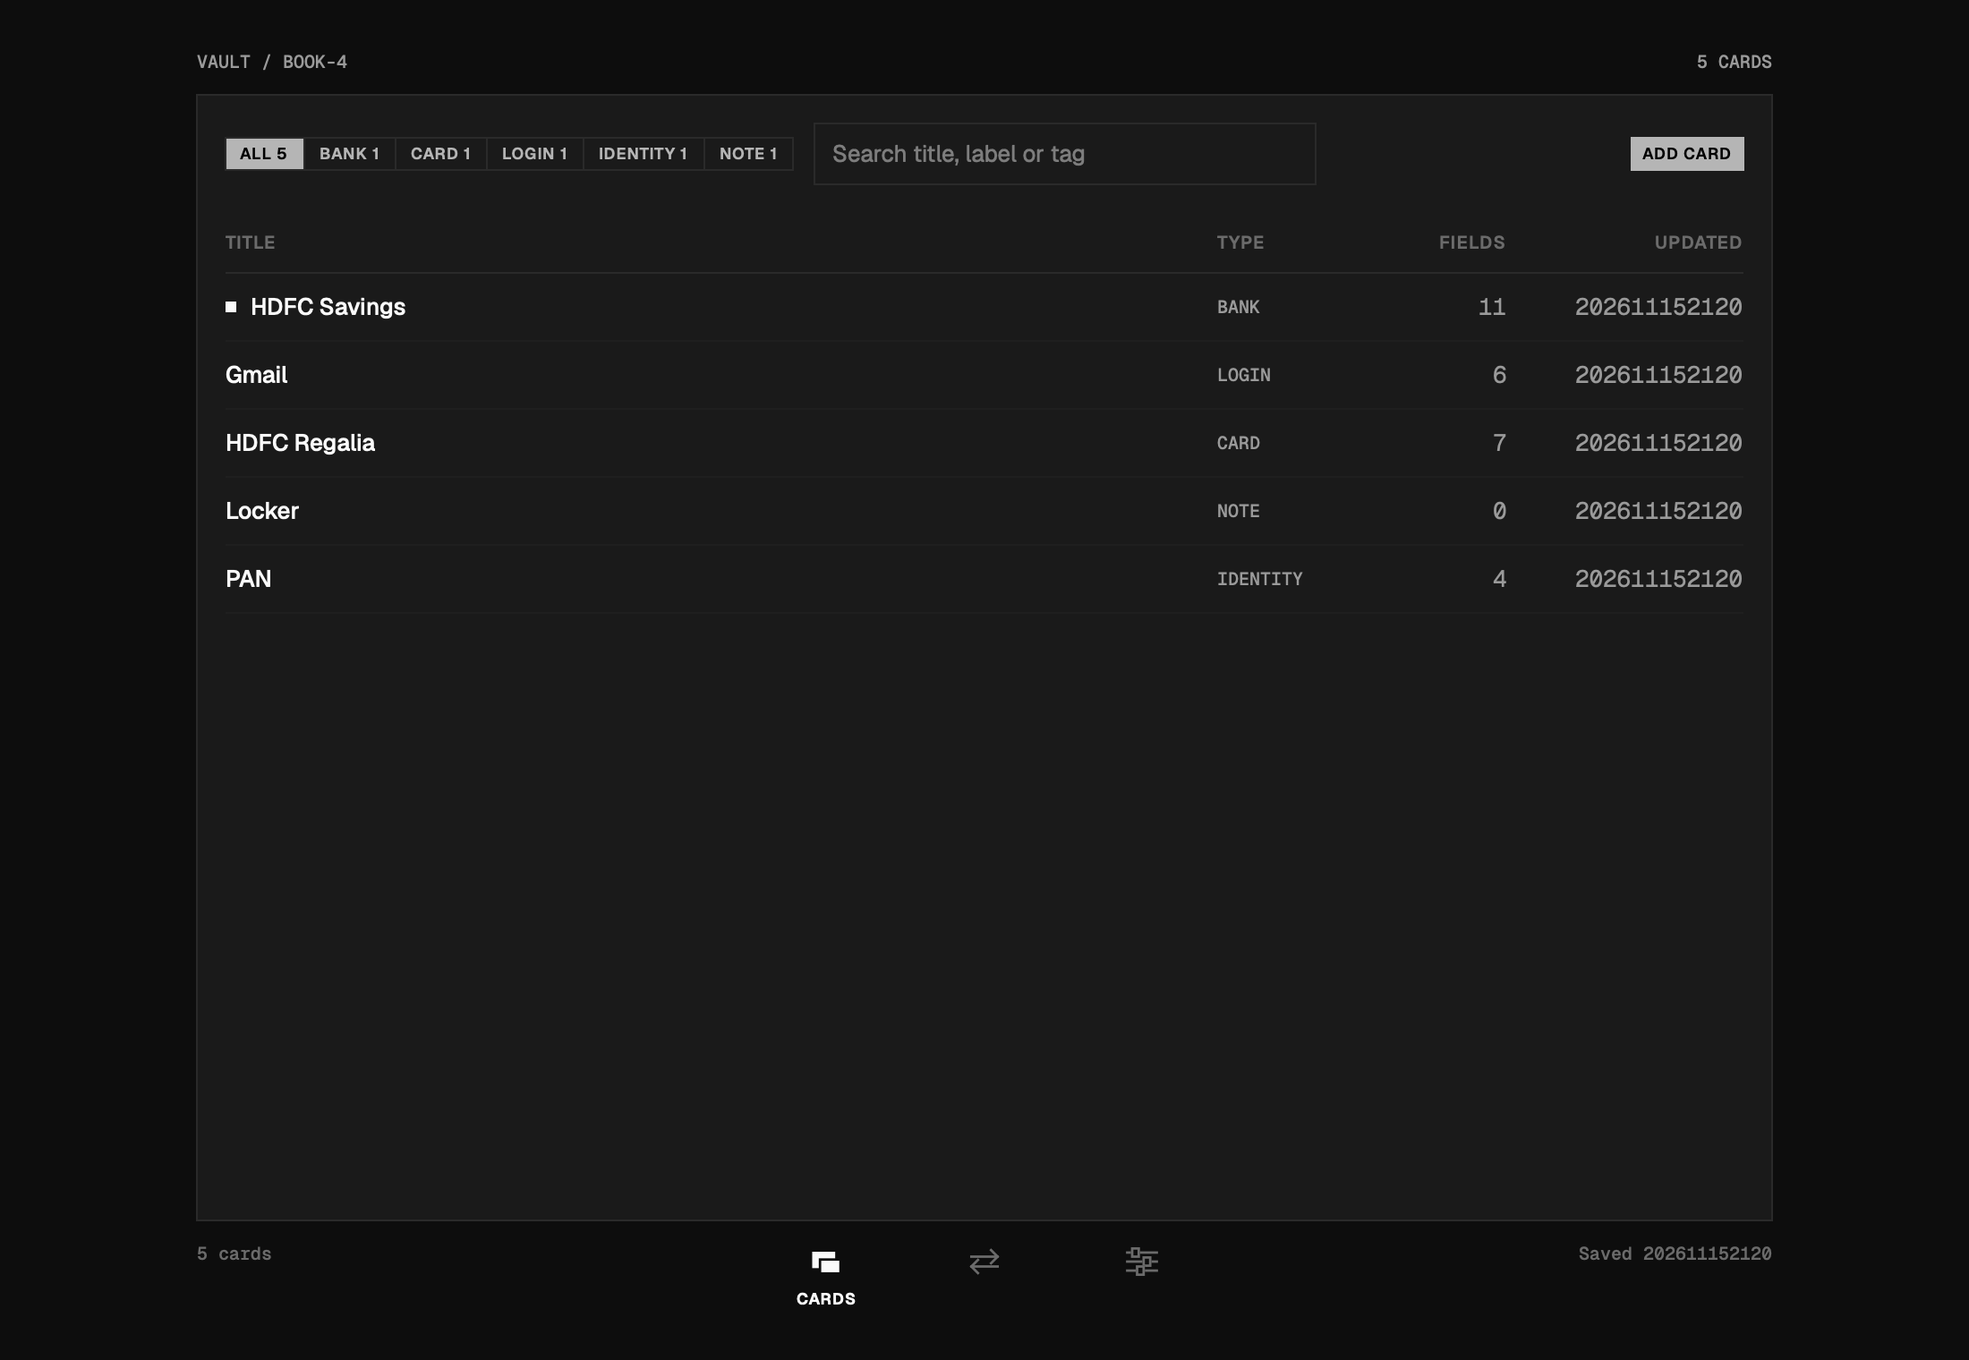
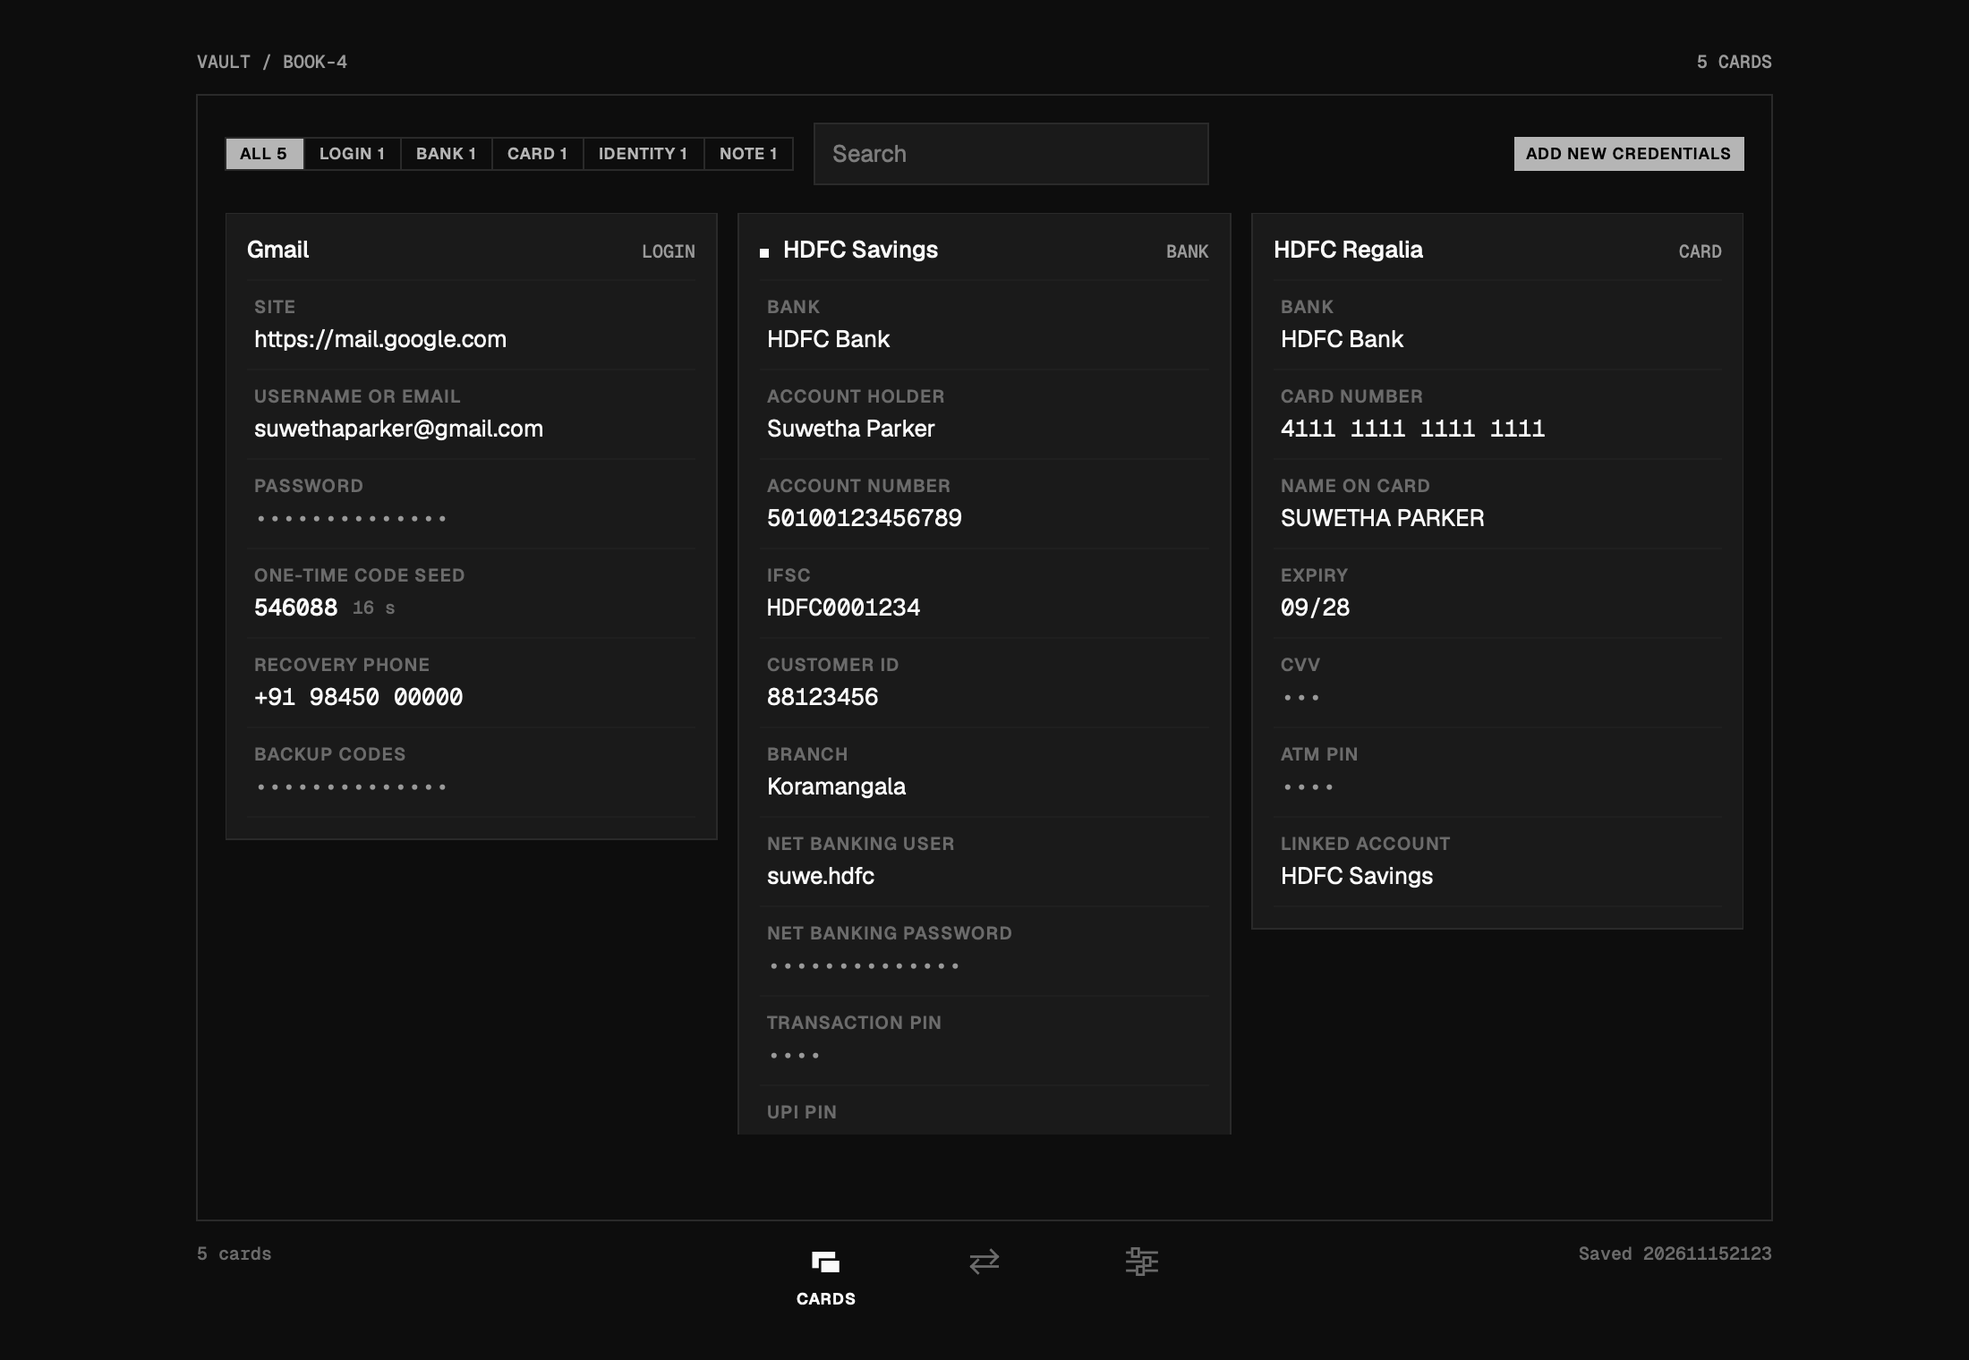
Cards module is a grid of small copyable cards; login, bank, card order; Add new credentials

diff --git a/Sources/VaultUI/Screens/Cards.swift b/Sources/VaultUI/Screens/Cards.swift
@@ -10,19 +10,7 @@ struct CardsModule: View {
         if let draft = model.editingItem {
             CardEditor(model: model, original: draft, isNew: model.item(draft.id) == nil) { model.editingItem = nil }
         } else {
-            ZStack {
-                list
-                if let item = model.item(model.selectedItemID) {
-                    // The card floats over the list. Click outside, Esc or CLOSE puts it away.
-                    Tok.bg.opacity(0.72)
-                        .contentShape(Rectangle())
-                        .onTapGesture { model.selectedItemID = nil }
-                    CardDetail(model: model, item: item, onEdit: { model.editingItem = item }, onClose: { model.selectedItemID = nil })
-                        .padding(Type.isPhone ? 0 : Tok.s4)
-                    Button("") { model.selectedItemID = nil }.keyboardShortcut(.cancelAction).frame(width: 0, height: 0).opacity(0)
-                }
-            }
-            .animation(.easeOut(duration: 0.12), value: model.selectedItemID)
+            grid
         }
     }
 
@@ -41,27 +29,32 @@ struct CardsModule: View {
             .filter { filter == nil || $0.category == filter }
             .filter { q.isEmpty || $0.searchText.contains(q) }
             .sorted { a, b in
+                // Logins, then bank, then cards, then the rest. Pinned first within a type, then by title.
+                let order = ItemCategory.allCases
+                let ia = order.firstIndex(of: a.category) ?? 0, ib = order.firstIndex(of: b.category) ?? 0
+                if ia != ib { return ia < ib }
                 if a.favourite != b.favourite { return a.favourite }
                 return a.title.localizedCaseInsensitiveCompare(b.title) == .orderedAscending
             }
     }
 
-    private var list: some View {
+    /// Every card is shown whole, small, in a scrolling grid. Values copy from here; nothing opens.
+    private var grid: some View {
         VStack(alignment: .leading, spacing: Tok.s4) {
             if Type.isPhone {
                 VStack(alignment: .leading, spacing: Tok.s2) {
                     ScrollView(.horizontal, showsIndicators: false) { Segmented(counts, selection: $filter) }
                     HStack(spacing: Tok.s1) {
                         OpsField("", text: $query, placeholder: "Search")
-                        RowButton("Add", kind: .primary) { newCard() }
+                        RowButton("Add new", kind: .primary) { newCard() }
                     }
                 }
             } else {
                 HStack(spacing: Tok.s3) {
                     Segmented(counts, selection: $filter)
-                    OpsField("", text: $query, placeholder: "Search title, label or tag").frame(maxWidth: 280)
+                    OpsField("", text: $query, placeholder: "Search").frame(maxWidth: 220)
                     Spacer()
-                    OpsButton("Add card", kind: .primary) { newCard() }
+                    OpsButton("Add new credentials", kind: .primary) { newCard() }
                 }
             }
             if model.items.isEmpty {
@@ -69,25 +62,17 @@ struct CardsModule: View {
             } else if visible.isEmpty {
                 Text("No match").font(Type.meta()).foregroundStyle(Tok.text3).padding(.top, Tok.s6)
             } else {
-                ScrollView {
-                    VStack(spacing: 0) {
-                        if !Type.isPhone {
-                            HStack(spacing: Tok.s3) {
-                                Lbl("Title").frame(maxWidth: .infinity, alignment: .leading)
-                                Lbl("Type").frame(width: 90, alignment: .leading)
-                                Lbl("Fields").frame(width: 60, alignment: .trailing)
-                                Lbl("Updated").frame(width: 120, alignment: .trailing)
-                            }
-                            .padding(.vertical, Tok.s25)
-                            Rule()
-                        }
+                ScrollView(showsIndicators: false) {
+                    LazyVGrid(columns: [GridItem(.adaptive(minimum: Type.isPhone ? 300 : 260, maximum: 340), spacing: Tok.s3, alignment: .top)],
+                              alignment: .leading, spacing: Tok.s3) {
                         ForEach(visible) { item in
-                            CardRow(item: item) { model.selectedItemID = item.id; model.touchActivity() }
-                            Rule(quiet: true)
+                            MiniCard(model: model, item: item) { model.editingItem = item }
                         }
                     }
+                    .padding(.bottom, Tok.s4)
                 }
             }
+            StatusLine(model.status, isError: model.statusIsError)
         }
     }
 
@@ -96,79 +81,34 @@ struct CardsModule: View {
     }
 }
 
-struct CardRow: View {
-    let item: VaultItem
-    let open: () -> Void
-    @State private var hover = false
-    var body: some View {
-        Button(action: open) {
-            if Type.isPhone {
-                HStack(spacing: Tok.s3) {
-                    VStack(alignment: .leading, spacing: 3) {
-                        Text(item.title).font(Type.bodyStrong()).foregroundStyle(Tok.text).lineLimit(1)
-                        Tag(item.category.label)
-                    }
-                    Spacer()
-                    Text(Fmt.day(item.modifiedAt)).font(Type.tag()).foregroundStyle(Tok.text3)
-                }
-                .padding(.vertical, Tok.s3)
-                .contentShape(Rectangle())
-            } else {
-                HStack(spacing: Tok.s3) {
-                    HStack(spacing: Tok.s2) {
-                        if item.favourite { Rectangle().fill(Tok.text).frame(width: 6, height: 6) }
-                        Text(item.title).font(Type.bodyStrong()).foregroundStyle(Tok.text).lineLimit(1)
-                    }
-                    .frame(maxWidth: .infinity, alignment: .leading)
-                    Tag(item.category.label).frame(width: 90, alignment: .leading)
-                    Text("\(item.fields.filter { !$0.value.isEmpty }.count)").font(Type.dataBody()).foregroundStyle(Tok.text2).frame(width: 60, alignment: .trailing)
-                    Text(Fmt.stamp(item.modifiedAt)).font(Type.dataBody()).foregroundStyle(Tok.text2).frame(width: 120, alignment: .trailing)
-                }
-                .padding(.vertical, Tok.s25)
-                .background(hover ? Tok.elevated : .clear)
-                .contentShape(Rectangle())
-            }
-        }
-        .buttonStyle(.plain)
-        .onHover { hover = $0 }
-    }
-}
+// MARK: Mini card
 
-// MARK: Detail
-
-/// Design section 07 "Card": bordered panel on surface, 16px padding, title-3 header with a tag at the
-/// right, label left and mono value right. Hovering a row shows its actions; clicking a value copies it.
-struct CardDetail: View {
+/// Design section 07 "Card", compact: bordered panel on surface, 12px padding, title with the type tag
+/// at the right, label left and mono value right. Hover a row for REVEAL / COPY; click the row to copy.
+struct MiniCard: View {
     @ObservedObject var model: AppModel
     let item: VaultItem
     let onEdit: () -> Void
-    let onClose: () -> Void
     @State private var revealed: Set<UUID> = []
-    @State private var confirmDelete = false
+    @State private var hover = false
 
     private var filled: [VaultField] { item.fields.filter { !$0.value.isEmpty } }
 
     var body: some View {
-        ScrollView(showsIndicators: false) { card }
-            .frame(maxWidth: cardWidth)
-            .fixedSize(horizontal: false, vertical: true)
-    }
-
-    private var cardWidth: CGFloat { Type.isPhone ? .infinity : 560 }
-
-    private var card: some View {
         VStack(alignment: .leading, spacing: 0) {
-            HStack(alignment: .firstTextBaseline, spacing: Tok.s3) {
-                Text(item.title).font(Type.title3()).foregroundStyle(Tok.text).lineLimit(2)
-                Spacer()
-                HStack(spacing: Tok.s2) {
-                    if item.favourite { Rectangle().fill(Tok.text).frame(width: 6, height: 6) }
-                    Tag(item.category.label)
+            HStack(alignment: .firstTextBaseline, spacing: Tok.s2) {
+                if item.favourite { Rectangle().fill(Tok.text).frame(width: 5, height: 5) }
+                Text(item.title).font(Type.bodyStrong()).foregroundStyle(Tok.text).lineLimit(1)
+                Spacer(minLength: Tok.s2)
+                Tag(item.category.label)
+                if hover || Type.isPhone {
+                    Button(action: onEdit) { Lbl("Edit", color: Tok.text2) }.buttonStyle(.plain)
                 }
             }
-            .padding(.bottom, Tok.s3)
+            .padding(.bottom, Tok.s2)
+            Rule(quiet: true)
             if filled.isEmpty && item.notes.isEmpty {
-                Text("Nothing entered yet").font(Type.meta()).foregroundStyle(Tok.text3).padding(.vertical, Tok.s3)
+                Text("Nothing entered").font(Type.hint()).foregroundStyle(Tok.text3).padding(.vertical, Tok.s2)
             }
             ForEach(filled) { f in
                 CardFieldRow(field: f, revealed: revealed.contains(f.id),
@@ -177,38 +117,16 @@ struct CardDetail: View {
                 Rule(quiet: true)
             }
             if !item.notes.isEmpty {
-                VStack(alignment: .leading, spacing: Tok.s2) {
-                    Lbl("Notes")
-                    Text(item.notes).font(Type.body()).foregroundStyle(Tok.text2)
-                        .fixedSize(horizontal: false, vertical: true)
-                }
-                .padding(.top, Tok.s3)
+                Text(item.notes).font(Type.hint()).foregroundStyle(Tok.text2).lineLimit(3)
+                    .fixedSize(horizontal: false, vertical: true)
+                    .padding(.top, Tok.s2)
             }
-            if !item.tags.isEmpty {
-                HStack(spacing: Tok.s3) { ForEach(item.tags, id: \.self) { Tag($0) } }
-                    .padding(.top, Tok.s3)
-            }
-            Rule().padding(.top, Tok.s4)
-            HStack(spacing: Tok.s1) {
-                OpsButton("Edit", action: onEdit)
-                if confirmDelete {
-                    OpsButton("Confirm delete", kind: .danger) { model.delete(item.id) }
-                    OpsButton("Keep") { confirmDelete = false }
-                } else {
-                    OpsButton("Delete", kind: .danger) { confirmDelete = true }
-                }
-                Spacer()
-                StatusLine(model.status, isError: model.statusIsError)
-                OpsButton("Close", action: onClose)
-            }
-            .padding(.top, Tok.s3)
-            Text("Created \(Fmt.stamp(item.createdAt))   Updated \(Fmt.stamp(item.modifiedAt))")
-                .font(Type.hint()).foregroundStyle(Tok.text3).padding(.top, Tok.s2)
         }
-        .padding(Tok.s4)
-        .frame(maxWidth: cardWidth, alignment: .leading)
+        .padding(Tok.s3)
+        .frame(maxWidth: .infinity, alignment: .leading)
         .background(Tok.surface)
-        .overlay(Rectangle().stroke(Tok.border, lineWidth: 1))
+        .overlay(Rectangle().stroke(hover ? Tok.text3 : Tok.border, lineWidth: 1))
+        .onHover { hover = $0 }
     }
 }
 
@@ -227,37 +145,25 @@ struct CardFieldRow: View {
     private var showActions: Bool { Type.isPhone || hover }
 
     var body: some View {
-        Group {
-            if Type.isPhone {
-                // Field layout: label above, value and actions below.
-                VStack(alignment: .leading, spacing: Tok.s2) {
-                    Lbl(field.label)
-                    HStack(alignment: .firstTextBaseline, spacing: Tok.s3) {
-                        value.multilineTextAlignment(.leading)
-                        Spacer(minLength: Tok.s2)
-                        actions
-                    }
-                }
-            } else {
-                HStack(alignment: .firstTextBaseline, spacing: Tok.s3) {
-                    Lbl(field.label).frame(width: 150, alignment: .leading)
-                    Spacer(minLength: Tok.s2)
-                    value
-                    if showActions { actions.frame(width: actionsWidth, alignment: .trailing) }
-                    else { Color.clear.frame(width: actionsWidth, height: 1) }
-                }
+        VStack(alignment: .leading, spacing: 3) {
+            HStack(spacing: Tok.s2) {
+                Lbl(field.label).lineLimit(1)
+                Spacer(minLength: Tok.s2)
+                if showActions { actions }
+            }
+            HStack(spacing: 0) {
+                value
+                Spacer(minLength: 0)
             }
         }
-        .padding(.vertical, Tok.s25)
-        .padding(.horizontal, Tok.s2)
+        .padding(.vertical, Tok.s2)
+        .padding(.horizontal, Tok.s1)
         .background(hover ? Tok.elevated : .clear)
         .contentShape(Rectangle())
         .onTapGesture { doCopy() }
         .onHover { hover = $0 }
         .onReceive(timer) { tick = $0 }
     }
-
-    private var actionsWidth: CGFloat { field.kind.isSecret && !isOTP ? 86 : 40 }
 
     private var actions: some View {
         HStack(spacing: Tok.s3) {
@@ -280,10 +186,10 @@ struct CardFieldRow: View {
                 Text("Invalid seed").font(Type.meta()).foregroundStyle(Tok.err)
             }
         } else if field.kind.isSecret && !revealed {
-            Text(String(repeating: "•", count: min(field.value.count, 14))).font(Type.data()).foregroundStyle(Tok.text2)
+            Text(String(repeating: "•", count: min(field.value.count, 14))).font(Type.dataBody()).foregroundStyle(Tok.text2)
         } else {
-            Text(field.value).font(field.kind.isMono ? Type.data() : Type.body()).foregroundStyle(Tok.text)
-                .multilineTextAlignment(.trailing).lineLimit(4)
+            Text(field.value).font(field.kind.isMono ? Type.dataBody() : Type.cell()).foregroundStyle(Tok.text)
+                .lineLimit(3).fixedSize(horizontal: false, vertical: true)
         }
     }
 
@@ -311,7 +217,7 @@ struct CardEditor: View {
         ScrollView {
             VStack(alignment: .leading, spacing: Tok.s4) {
                 HStack(spacing: Tok.s3) {
-                    Text(isNew ? "New card" : "Edit card").font(Type.title3()).foregroundStyle(Tok.text)
+                    Text(isNew ? "New credentials" : "Edit credentials").font(Type.title3()).foregroundStyle(Tok.text)
                     Spacer()
                     if !Type.isPhone { actions }
                 }
@@ -349,10 +255,19 @@ struct CardEditor: View {
         }
     }
 
+    @State private var confirmDelete = false
     private var actions: some View {
         HStack(spacing: Tok.s1) {
             OpsButton("Save", kind: .primary, disabled: draft.title.trimmingCharacters(in: .whitespaces).isEmpty) { save() }
             OpsButton("Cancel") { done() }
+            if !isNew {
+                if confirmDelete {
+                    OpsButton("Confirm delete", kind: .danger) { model.delete(draft.id); done() }
+                    OpsButton("Keep") { confirmDelete = false }
+                } else {
+                    OpsButton("Delete", kind: .danger) { confirmDelete = true }
+                }
+            }
         }
     }
 
@@ -362,7 +277,6 @@ struct CardEditor: View {
         it.fields = it.fields.filter { !$0.value.trimmingCharacters(in: .whitespaces).isEmpty }
         it.tags = tagsText.split(separator: ",").map { $0.trimmingCharacters(in: .whitespaces) }.filter { !$0.isEmpty }
         model.upsert(it)
-        model.selectedItemID = it.id
         done()
     }
 }

diff --git a/Sources/VaultPreview/main.swift b/Sources/VaultPreview/main.swift
@@ -51,9 +51,6 @@ func scenarios() -> [Scenario] {
         Scenario(name: "09-mac-adopt", size: mac, phone: false, prepare: model { $0.phase = .adopt }),
         Scenario(name: "11-mac-cards", size: mac, phone: false, prepare: model { $0.loadForPreview(v) }),
         Scenario(name: "11-phone-cards", size: ph, phone: true, prepare: model { $0.loadForPreview(v) }),
-        Scenario(name: "12-mac-card-detail", size: mac, phone: false, prepare: model { $0.loadForPreview(v); $0.selectedItemID = v.payload.items[0].id }),
-        Scenario(name: "12-phone-card-detail", size: ph, phone: true, prepare: model { $0.loadForPreview(v); $0.selectedItemID = v.payload.items[0].id }),
-        Scenario(name: "13-mac-card-detail-login", size: mac, phone: false, prepare: model { $0.loadForPreview(v); $0.selectedItemID = v.payload.items[2].id }),
         Scenario(name: "13b-mac-editor", size: mac, phone: false, prepare: model { $0.loadForPreview(v); $0.editingItem = v.payload.items[2] }),
         Scenario(name: "13b-phone-editor", size: CGSize(width: 390, height: 1100), phone: true, prepare: model { $0.loadForPreview(v); $0.editingItem = v.payload.items[2] }),
         Scenario(name: "14-mac-sync", size: mac, phone: false, prepare: model { $0.loadForPreview(v); $0.module = .sync }),

diff --git a/Sources/VaultUI/Screens/Frame.swift b/Sources/VaultUI/Screens/Frame.swift
@@ -62,7 +62,6 @@ struct Frame<Content: View>: View {
 
             content()
                 .frame(maxWidth: Tok.appColumn, maxHeight: .infinity, alignment: .top)
-                .background(Tok.surface.opacity(Type.isPhone ? 0 : 1))
                 .overlay(Rectangle().stroke(Type.isPhone ? .clear : Tok.border, lineWidth: 1))
 
             HStack(alignment: .top) {

diff --git a/Sources/VaultCore/Model/VaultItem.swift b/Sources/VaultCore/Model/VaultItem.swift
@@ -90,7 +90,7 @@ public enum FieldKind: String, Codable, CaseIterable, Sendable {
 }
 
 public enum ItemCategory: String, Codable, CaseIterable, Sendable {
-    case bank, card, login, identity, note, custom
+    case login, bank, card, identity, note, custom   // display order
 
     public var label: String {
         switch self {
